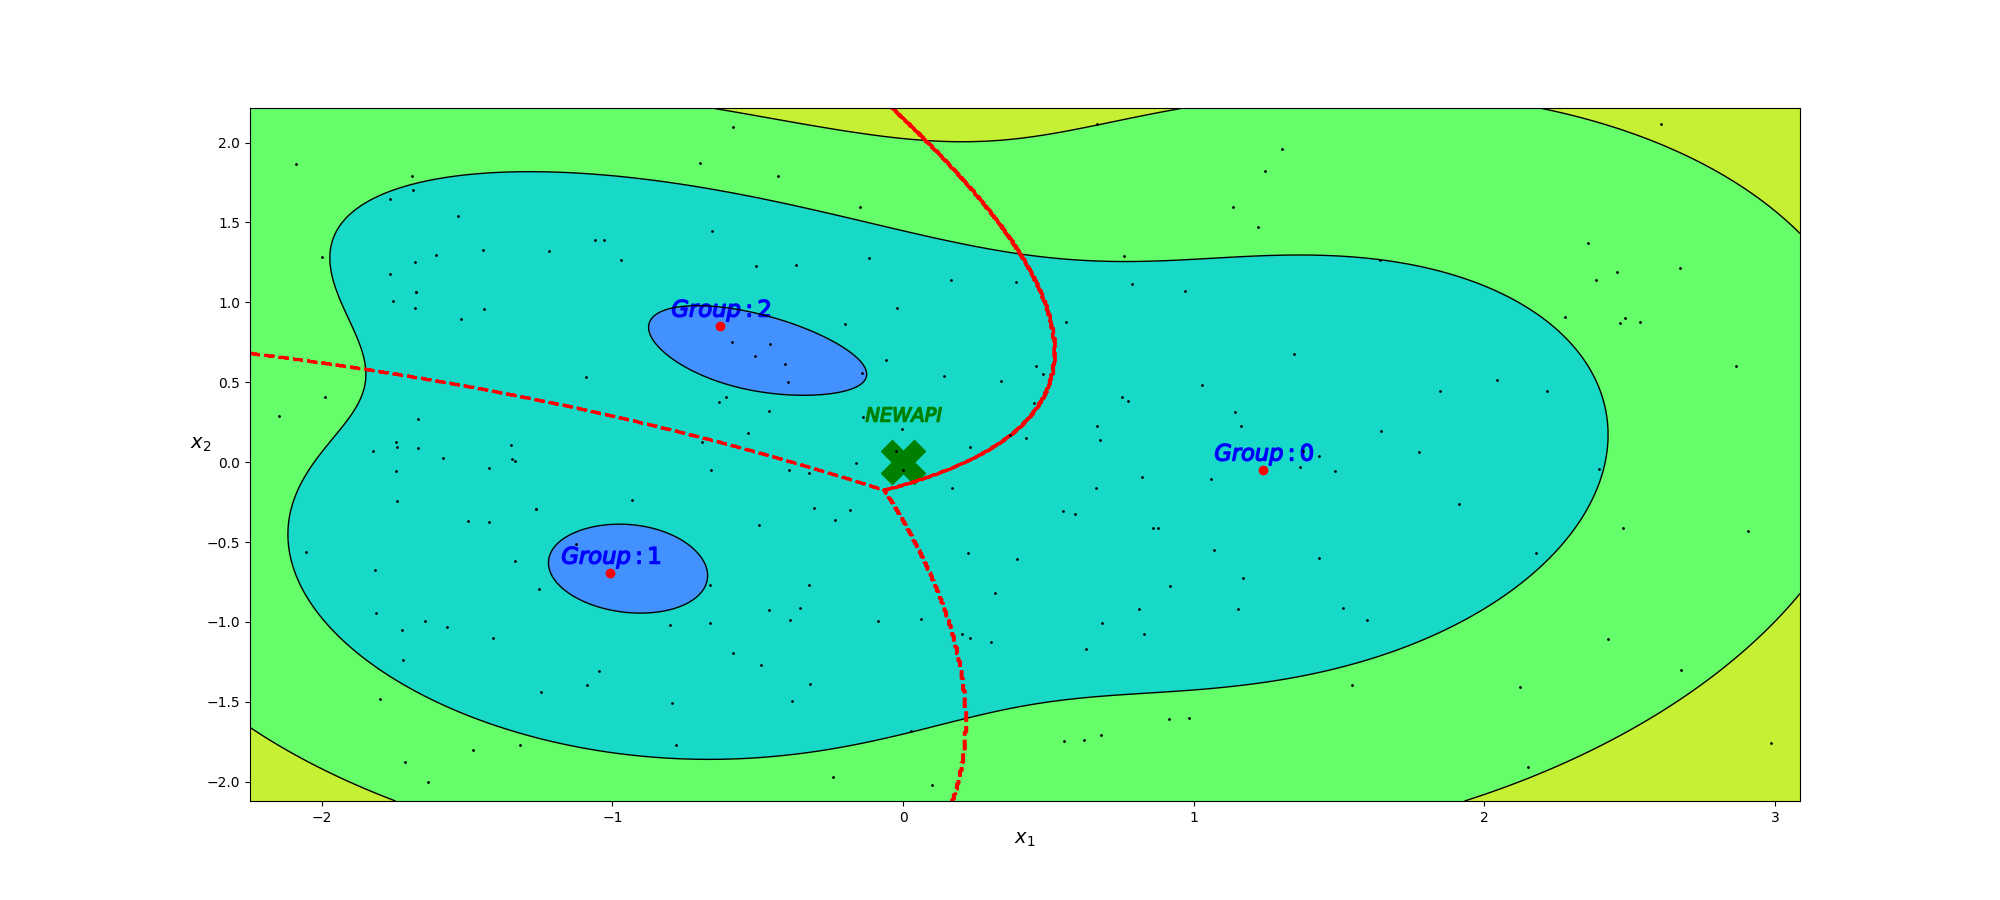
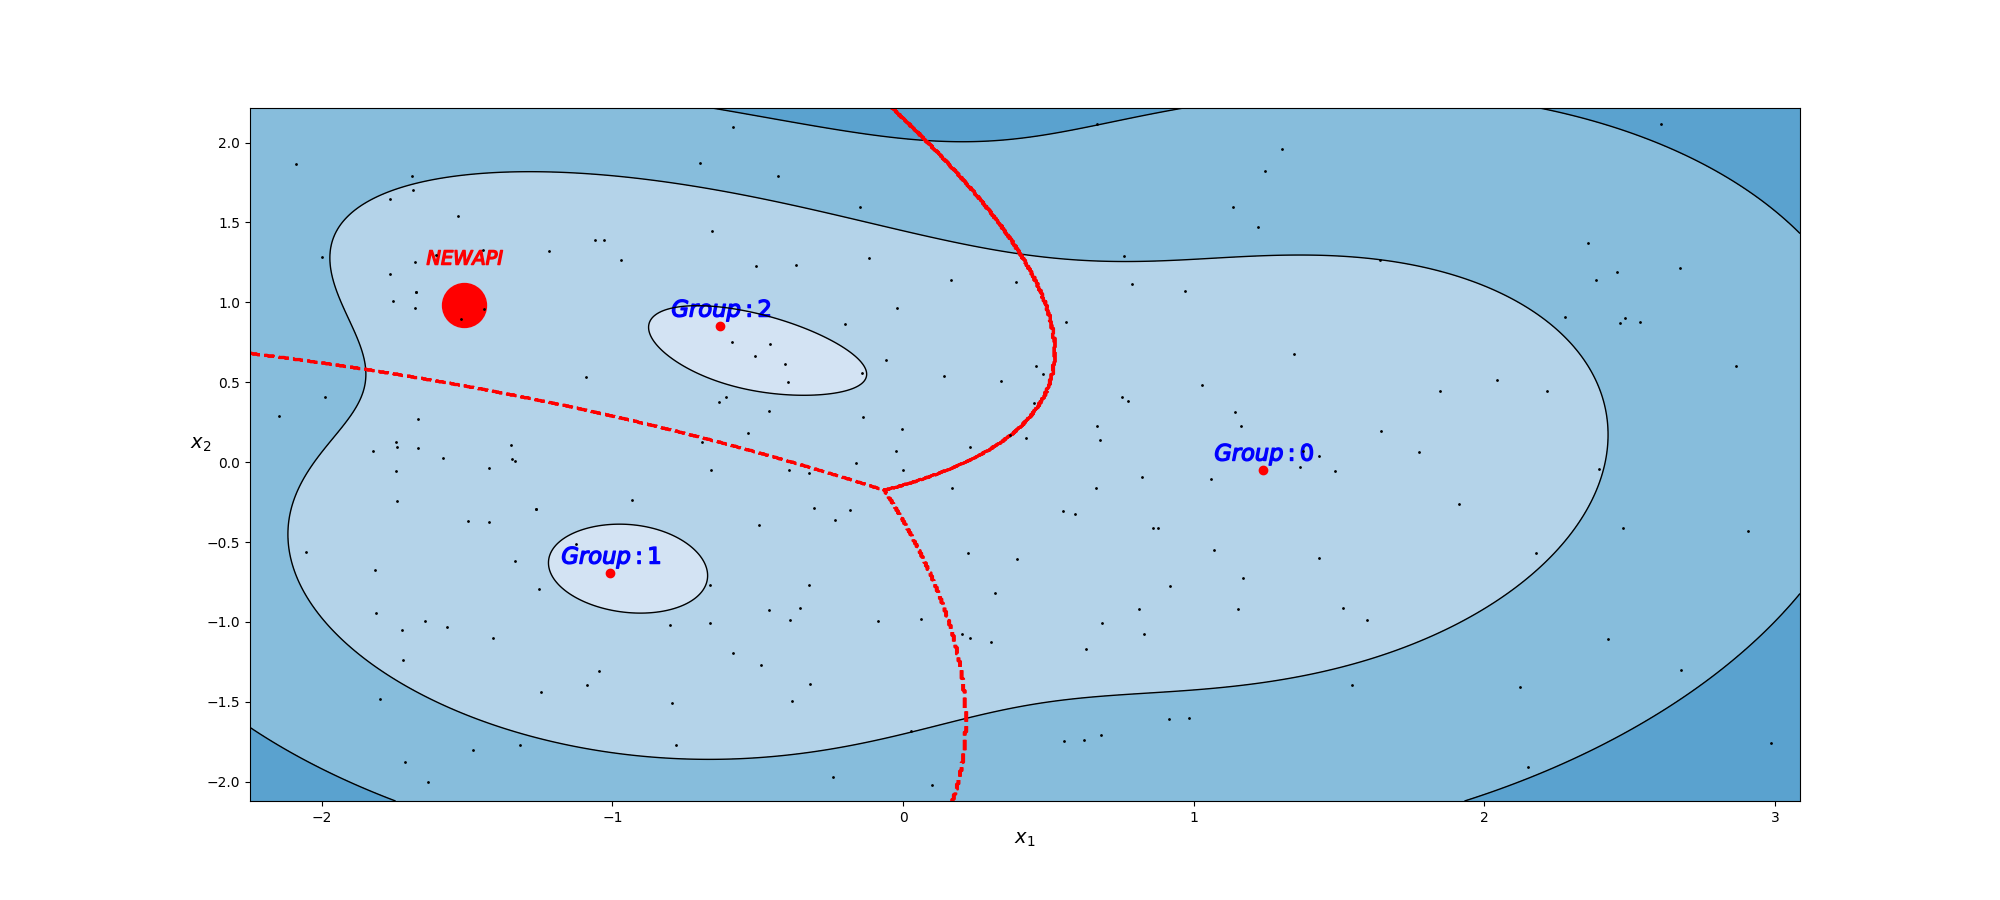
changed scaler and graph colours

diff --git a/StreamlitApp/build_graph.py b/StreamlitApp/build_graph.py
@@ -95,10 +95,10 @@ def build_graph(y_scaled):
         random_state=0).fit(df[features])
 
     plt.figure(figsize=(20, 9))
-    plot_gaussian_mixture(gm_for_pca_2dims, reduced, colours="turbo")
-    plt.scatter(y_scaled[0][0], y_scaled[0][1], c="g", marker="X", s=1000)
-    plt.scatter(y_scaled[0][0], y_scaled[0][1]+0.3, marker='$NEW API$', \
-        s=3000, c="g")
+    plot_gaussian_mixture(gm_for_pca_2dims, reduced, colours="Blues")
+    plt.scatter(y_scaled[0][0], y_scaled[0][3], c="r", marker="o", s=1000)
+    plt.scatter(y_scaled[0][0], y_scaled[0][3]+0.3, marker='$NEW API$', \
+        s=3000, c="r")
     plt.savefig('pic.png')
     plt.axis("off")
     plt.show()

diff --git a/StreamlitApp/hack_streamlit.py b/StreamlitApp/hack_streamlit.py
@@ -67,7 +67,14 @@ if col2.button('Predict outcome for this API'):
         organic_search_volume,
         seo_value,
     ]]
-    y_scaled = StandardScaler().fit_transform(y)
+
+    df = pd.read_csv('data.csv')
+    scaler = StandardScaler()
+    features = ['Analyst value (0 - 5)', 'Partner value (0 - 5)',
+           'Persona value (0 - 5)', 'Growing market',
+           'Organic Search Volume', 'SEO Value (0 - 3)']
+    scaler.fit(df[features])
+    y_scaled = scaler.transform(y)
     loaded_model = pickle.load(open('model/gm_for_predicton_6dims.sav', 'rb'))
     result = loaded_model.predict(y)[0]
     build_graph(y_scaled)
